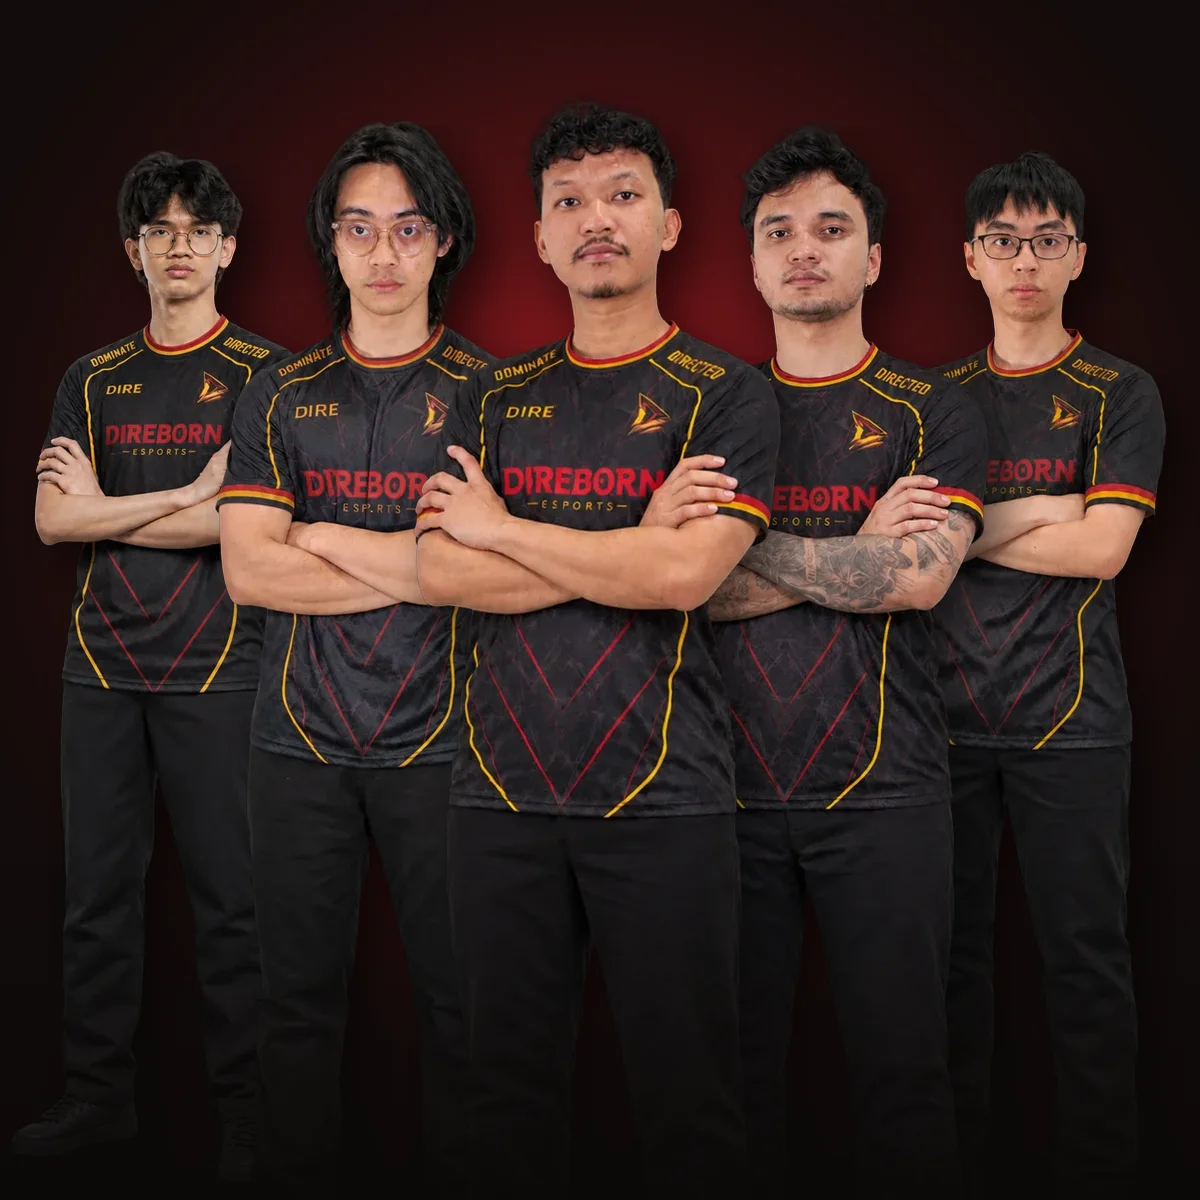
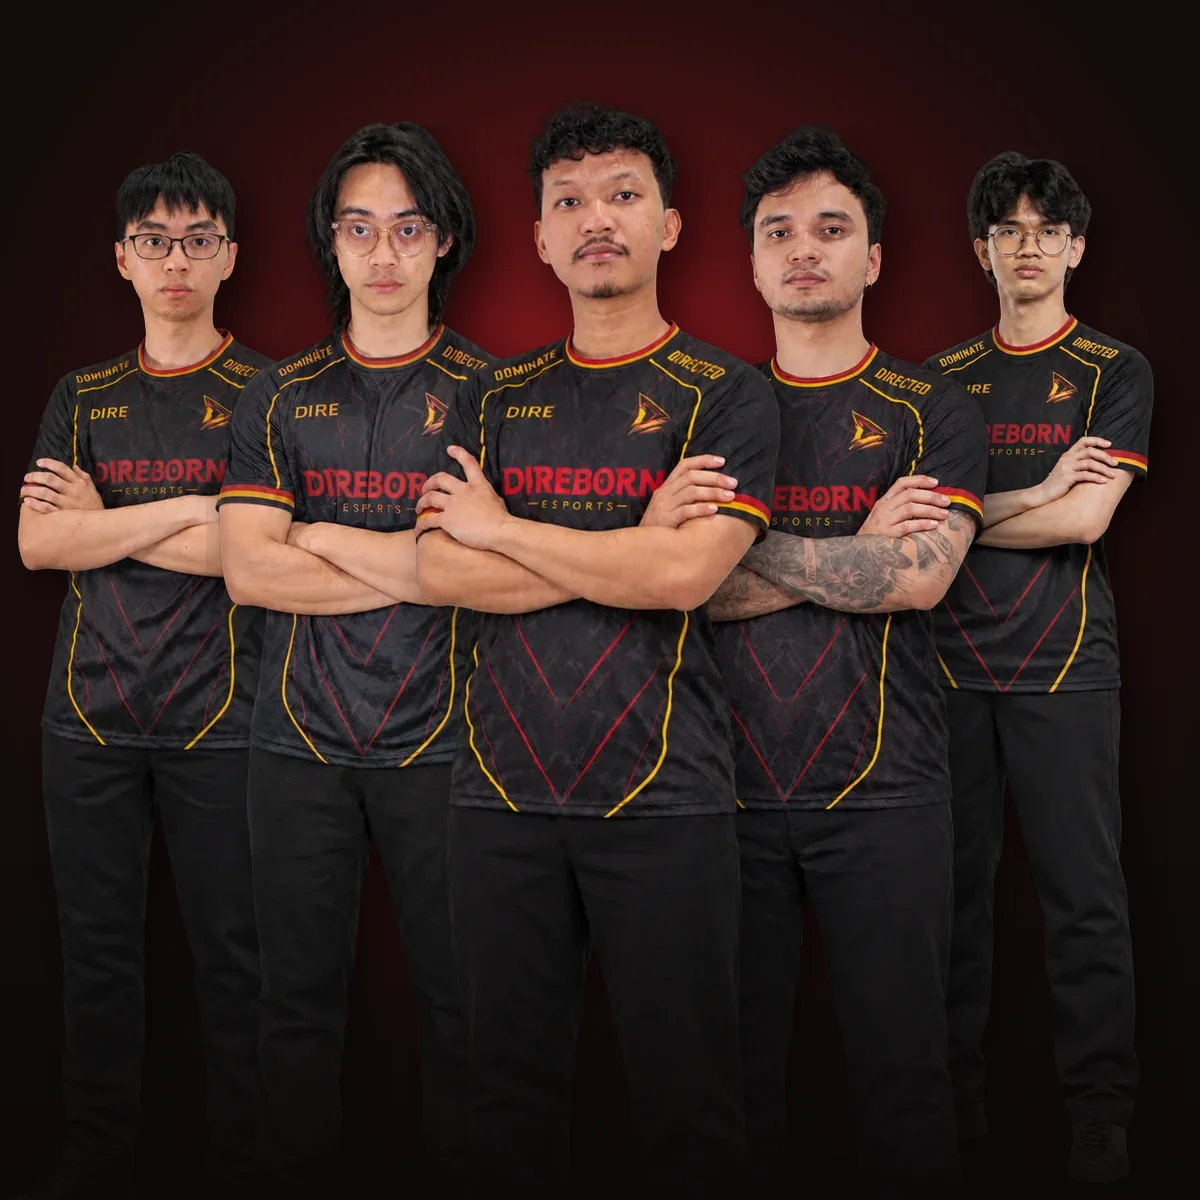
Fix db-/dalul photo swap; add EPL SEA 19 Grand Final result (3–0 vs Royal Bear)
Claude-Session: https://claude.ai/code/session_01KThcQEojyVDPvNMSwkWRv8

Changed region(s): [[0.0, 0.1233, 0.2467, 0.6475], [0.7708, 0.1233, 0.9867, 0.6167]]

diff --git a/index.html b/index.html
@@ -793,8 +793,8 @@ tbody tr:hover{background:rgba(239,232,227,.05)}
         <div class="player" style="--d:0"><div class="ph" data-idx="01" style="--h:49.1rem;--x:-37.9%;--y:-1.2%"><img src="assets/dreamocel.webp" alt="Dreamocel"></div><div class="nm"><b>Dreamocel</b><span class="mono">Randy Sapoetra</span></div></div>
         <div class="player" style="--d:1"><div class="ph" data-idx="02" style="--h:52rem;--x:-47.6%;--y:-.8%"><img src="assets/womy.webp" alt="woMy"></div><div class="nm"><b>woMy</b><span class="mono">Said Romy</span></div></div>
         <div class="player" style="--d:2"><div class="ph" data-idx="03" style="--h:55.5rem;--x:-48.6%;--y:-7.3%"><img src="assets/potat2.webp" alt="PotaT2"></div><div class="nm"><b>PotaT2</b><span class="mono">Noel Pinot</span></div></div>
-        <div class="player" style="--d:3"><div class="ph" data-idx="04" style="--h:45.9rem;--x:-51.7%;--y:-.4%"><img src="assets/db.webp" alt="db-"></div><div class="nm"><b>db-</b><span class="mono">Daud Budiawan</span></div></div>
-        <div class="player" style="--d:4"><div class="ph" data-idx="05" style="--h:55.3rem;--x:-53%;--y:-8.4%"><img src="assets/dalul.webp" alt="dalul"></div><div class="nm"><b>dalul</b><span class="mono">Abdalla Putra Afemi</span></div></div>
+        <div class="player" style="--d:3"><div class="ph" data-idx="04" style="--h:55.3rem;--x:-53%;--y:-8.4%"><img src="assets/db.webp" alt="db-"></div><div class="nm"><b>db-</b><span class="mono">Daud Budiawan</span></div></div>
+        <div class="player" style="--d:4"><div class="ph" data-idx="05" style="--h:45.9rem;--x:-51.7%;--y:-.4%"><img src="assets/dalul.webp" alt="dalul"></div><div class="nm"><b>dalul</b><span class="mono">Abdalla Putra Afemi</span></div></div>
       </div>
     </div>
   </div>
@@ -809,7 +809,7 @@ tbody tr:hover{background:rgba(239,232,227,.05)}
       <div class="head"><h2 data-vt="title"><span class="en">Our first year.</span><span class="id">Tahun pertama kami.</span></h2></div>
       <div class="runs">
         <div class="run rv" style="--d:2">
-          <div class="run-meta"><div class="pl">1<sup>st</sup></div><div><span class="mono">Grand Champion</span><h3>EPL SEA 19</h3></div></div>
+          <div class="run-meta"><div class="pl">1<sup>st</sup></div><div><span class="mono">Grand Champion</span><h3>EPL SEA 19</h3><span class="mono">Grand Final · 3–0 vs Royal Bear</span></div></div>
           <div class="strip">
             <img style="--d:0" src="assets/epl-bounce-back.webp" alt="Joining EPL 19: Time to Bounce Back">
             <img style="--d:1" src="assets/epl-matchday.webp" alt="EPL match day vs Team Nemesis Academy, 29 Oct 2026">

diff --git a/CLAUDE.md b/CLAUDE.md
@@ -49,7 +49,8 @@ reach, content, production, roadmap, partner, contact
 
 - Player IDs, exact spelling: Dreamocel, woMy, PotaT2, db-, dalul.
   Player photos (updated 11 Nov 2026, all standing with arms crossed) are named after the player:
-  `dreamocel.webp`, `womy.webp`, `potat2.webp`, `db.webp` (db-), `dalul.webp`. Framing per card via `--h/--x/--y`.
+  `dreamocel.webp`, `womy.webp`, `potat2.webp`, `db.webp` (db-, short hair, rectangular glasses),
+  `dalul.webp` (dalul, wavy hair, round glasses). Framing per card via `--h/--x/--y`.
 - Write **Direbattle** as one word everywhere (never "Direbattle").
 - No company name (PT Prosperity Unggul Abadi) on the slides for now.
 - Direbattle Pro Circuit order: Cup → League (Liga) → National (Nasional, a LAN/offline tournament) → International.
@@ -76,7 +77,7 @@ reach, content, production, roadmap, partner, contact
 
 - Direbattle events, teams, prize pools, champions: direborn.team/tournaments.
 - YouTube (Cup content, 12 Oct – 8 Nov 2026) and Instagram (1 Jun – 9/10 Nov 2026): owner's analytics screenshots.
-- Track record: EPL SEA 19 Grand Champion; Lunar Horse Trophy champion (Grand Final 3–1 vs Mentality Monsters).
+- Track record: EPL SEA 19 Grand Champion (Grand Final 3–0 vs Royal Bear); Lunar Horse Trophy champion (Grand Final 3–1 vs Mentality Monsters).
 
 ## Open items
 
@@ -85,7 +86,6 @@ reach, content, production, roadmap, partner, contact
   sounds found through Openverse (Freesound, all CC0), trimmed and peak-normalized to -3 dB. Owner has not heard them yet.
 - Music `assets/audio/bgm.mp3` is an 88s loop cut from a lo-fi "timer" track; licence for public use unconfirmed.
 - Mix Series: 8 teams, champion Faceless Void. Showdown 1v1 Mid: 8 entrants (owner, 10 Nov 2026).
-- Missing data: EPL SEA 19 final opponent/score.
 - Not on slides yet: player roles, follower counts per platform, audience demographics.
 - Motion and audio have been syntax-checked and screenshot-tested (1440x810, iPhone 13 390x844, 844x390 landscape,
   820x1180 tablet) but not watched or heard on a real device.
